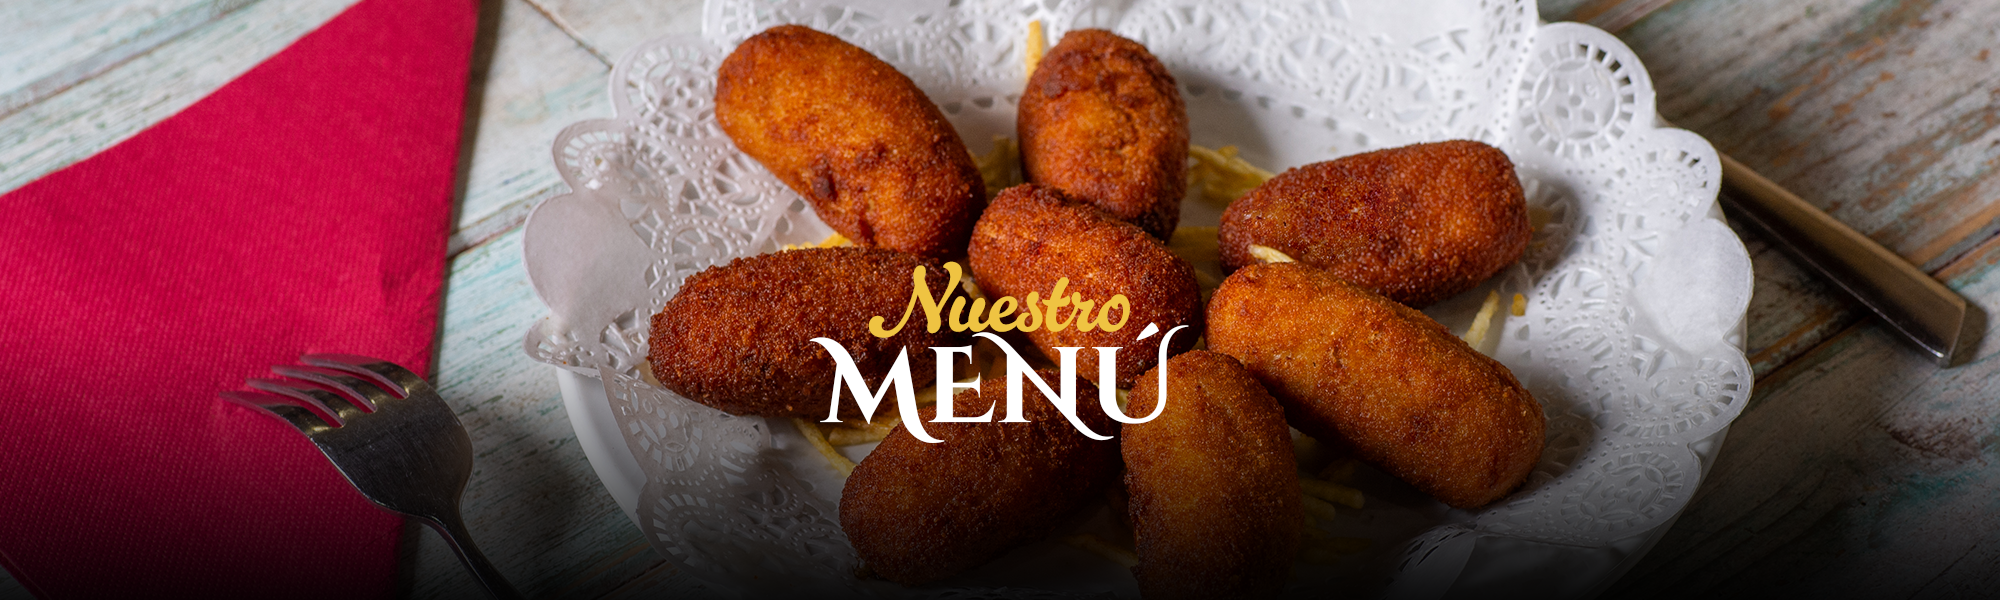
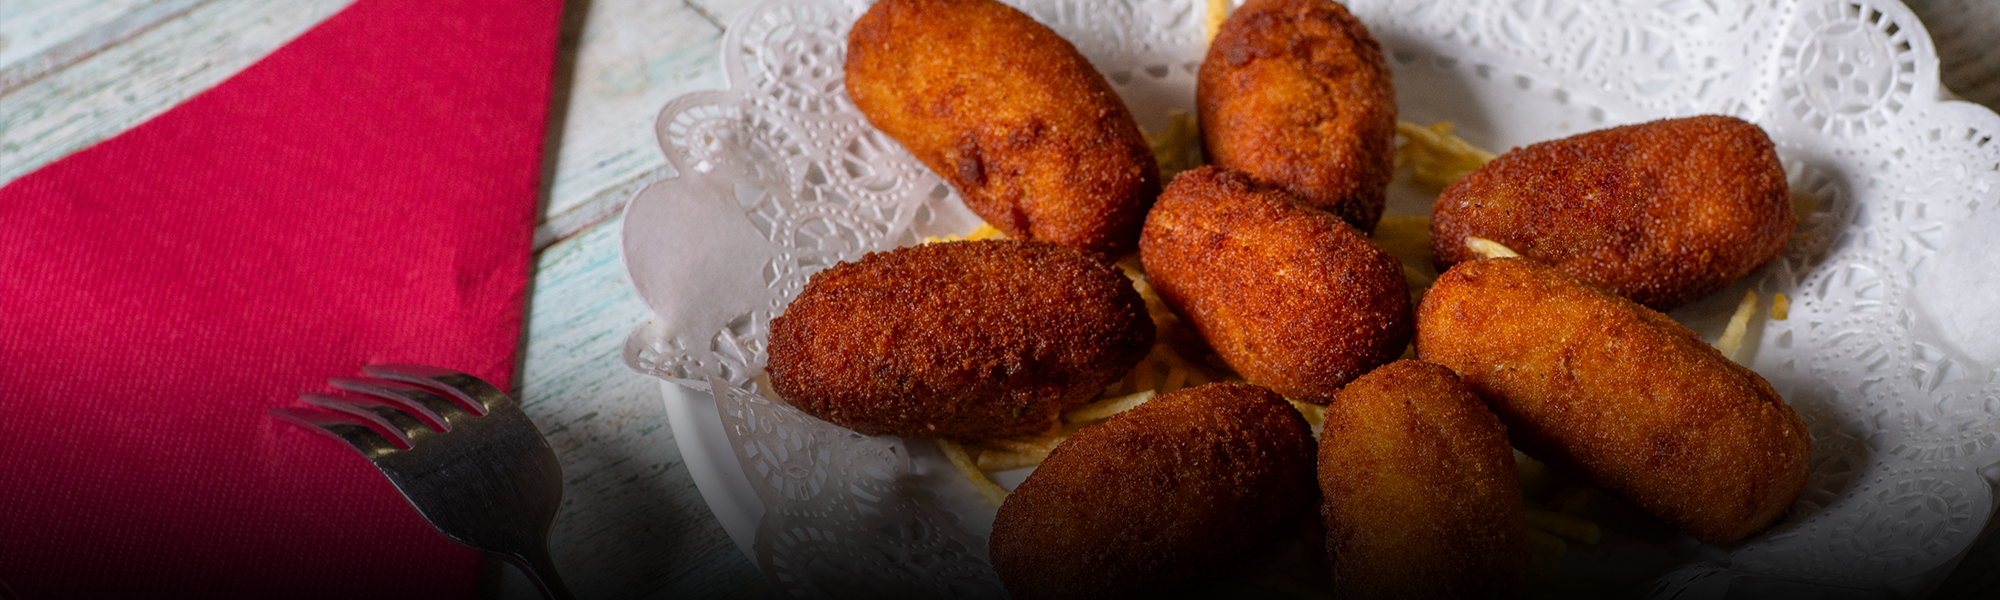
Add menu page

diff --git a/src/styles/pages/_menu.scss b/src/styles/pages/_menu.scss
@@ -1,14 +1,25 @@
 .head2 {
+  position: relative;
   width: 100%;
-  height: 30vh;
-  background-image: url("../images/menu/head2.png"),
-    linear-gradient(to bottom, rgba(0, 0, 0, 0), #000000);
+  min-height: 40svh;
+  background-image: url("../images/menu/head2.png");
   background-size: cover;
-  background-position: 50%;
+  background-position: center;
   background-repeat: no-repeat;
   display: flex;
   justify-content: center;
   align-items: center;
+  text-align: center;
+  overflow: hidden;
+  margin-bottom: 2rem;
+
+  @media (min-width: 768px) {
+    min-height: 40svh;
+  }
+
+  @media (min-width: 1200px) {
+    min-height: 45svh;
+  }
 }
 
 .menu2 {
@@ -27,6 +38,15 @@
     font-weight: 600;
     font-size: 2.5rem;
     color: $third-color;
+    font-size: 38px;
+
+    @media (min-width: 768px) {
+      font-size: 42px;
+    }    
+
+    @media (min-width: 1200px) {
+      font-size: 52px;
+    }   
   }
 
   &__title2 {
@@ -35,6 +55,15 @@
     font-size: 2.5rem;
     color: $third-color;
     margin-top: -2rem;
+    font-size: 38px;
+
+    @media (min-width: 768px) {
+      font-size: 42px;
+    }   
+
+    @media (min-width: 1200px) {
+      font-size: 52px;
+    }
   }
 
   &__btn {
@@ -46,6 +75,11 @@
     color: $third-color;
     border-radius: 1rem;
     margin-top: 1rem;
+    font-size: 15px;
+
+    @media (min-width: 768px) {
+      font-size: 18px;
+    }    
   }
 
   &__link {
@@ -61,6 +95,14 @@
   position: relative;
   background-color: $background-black;
   padding-block: 2rem;
+
+  @media (min-width: 768px) {
+    width: 65%;
+  }
+
+   @media (min-width: 1200px) {
+    width: 50%;
+  }
 }
 
 .slider-box {

diff --git a/src/menu.html b/src/menu.html
@@ -16,10 +16,23 @@
 
   <!--Página Menú-->
   <body>
-    <main class="head2"></main>
+    <main class="head2">
+      <div class="head1__overlay"></div>
+      <div class="head1__principal2">
+        <h1 class="principal2__title">Nuestro</h1>
+        <h1 class="principal2__title2">Menú</h1>
+      </div>
+    </main>
     <section class="menu2">
       <h2 class="menu2__title">Descubre el sabor</h2>
       <h2 class="menu2__title2">de la Sacristia</h2>
+      <div class="text-wrapper">
+          <p class="content01__text">En <strong>Bodega La Sacristía</strong>, cada plato cuenta una historia que 
+            combina <strong>tradición, sabor y buen hacer</strong>. Nuestra carta está pensada para compartir momentos, 
+            desde los clásicos de siempre hasta propuestas que sorprenden por su sencillez y 
+            autenticidad. Descubre una cocina honesta, elaborada con <strong>ingredientes frescos</strong> 
+            y el <strong>cariño de nuestra tierra</strong>.</p>
+        </div>
       <button class="menu2__btn"><a class="menu2__link" href="https://www.numier.com/carta-digital/carta/bodegalasacristia">Consulta toda nuestra carta</a></button>
     </section>
     <section class="slider">
